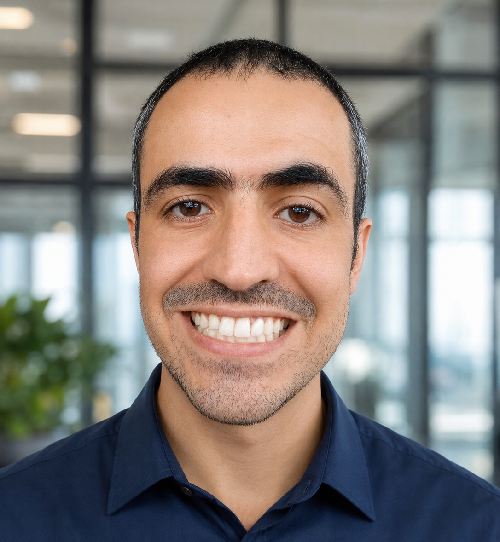
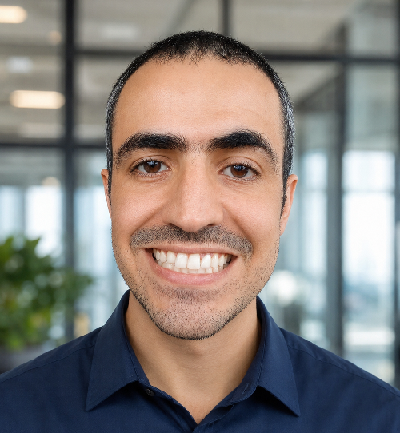
49

diff --git a/index.html b/index.html
@@ -1104,7 +1104,7 @@
 <body>
     <nav class="nav-bar">
         <a href="#" class="nav-logo nav-logo-mobile">
-            <img src="favicon-32x32.png" alt="Logo" class="nav-logo-img" onclick="createExplosion(event)">
+            <img src="favicon-180x180.png" alt="Logo" class="nav-logo-img" onclick="createExplosion(event)">
         </a>
         <button class="hamburger-btn" onclick="toggleMenu()" aria-label="Menu">
             <span></span>
@@ -1113,7 +1113,7 @@
         </button>
         <div class="nav-container">
             <a href="#" class="nav-logo">
-                <img src="favicon-32x32.png" alt="Logo" class="nav-logo-img" onclick="createExplosion(event)">
+                <img src="favicon-180x180.png" alt="Logo" class="nav-logo-img" onclick="createExplosion(event)">
             </a>
             <a href="#home" class="nav-link">Home</a>
             <a href="#servicos" class="nav-link">Meus Serviços</a>
